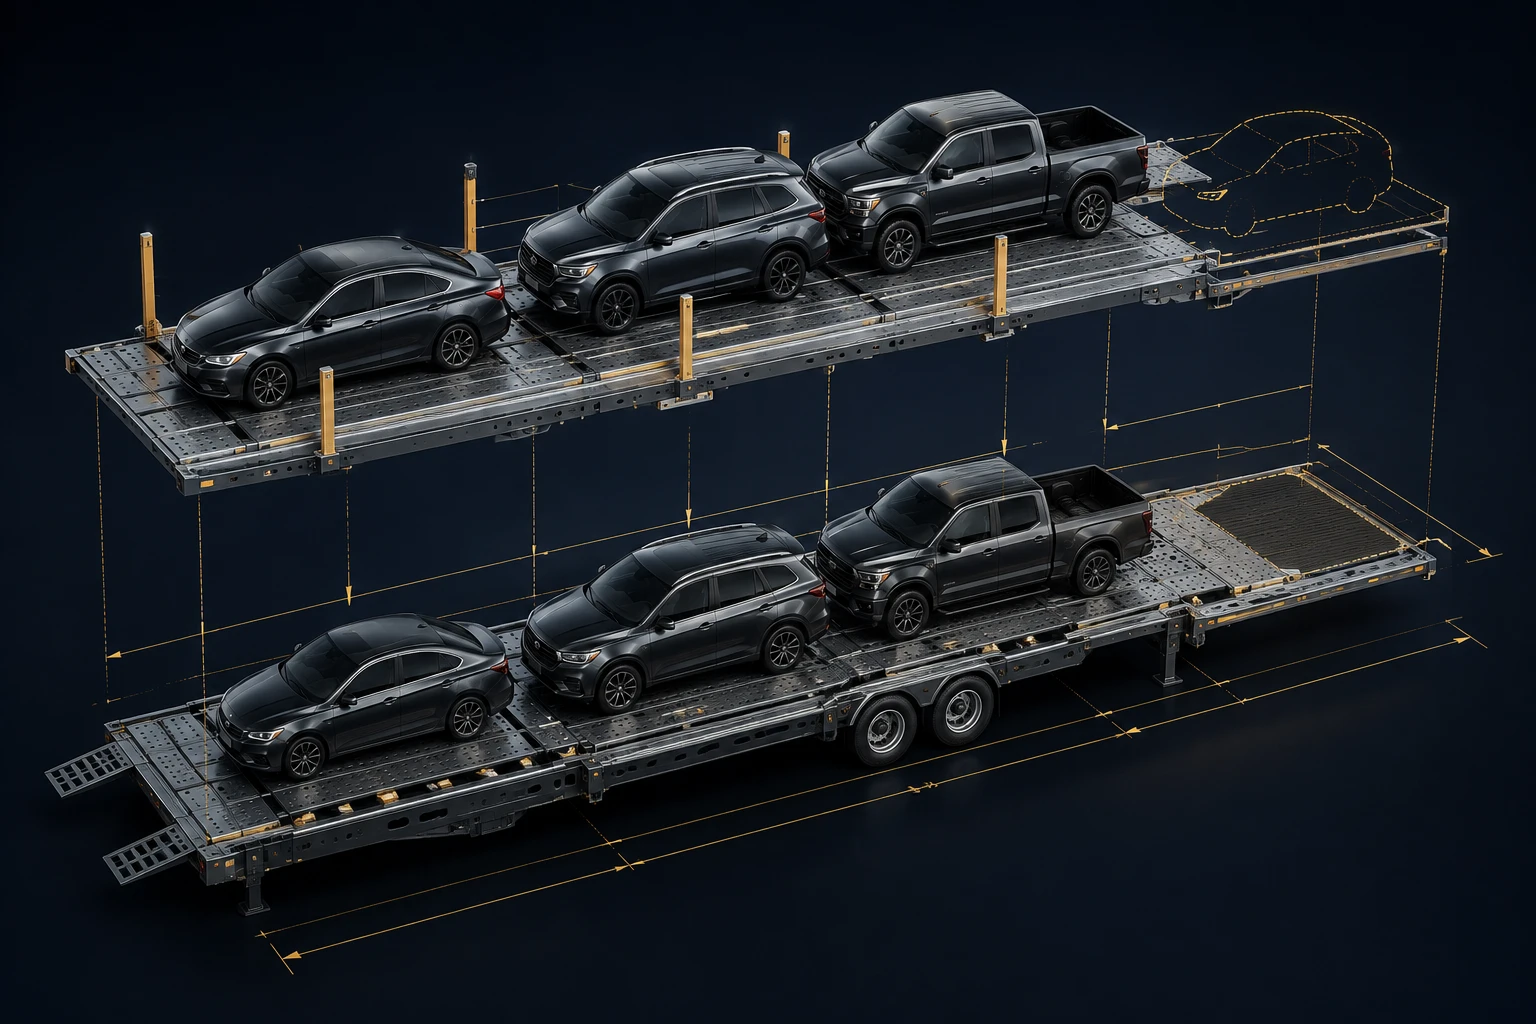
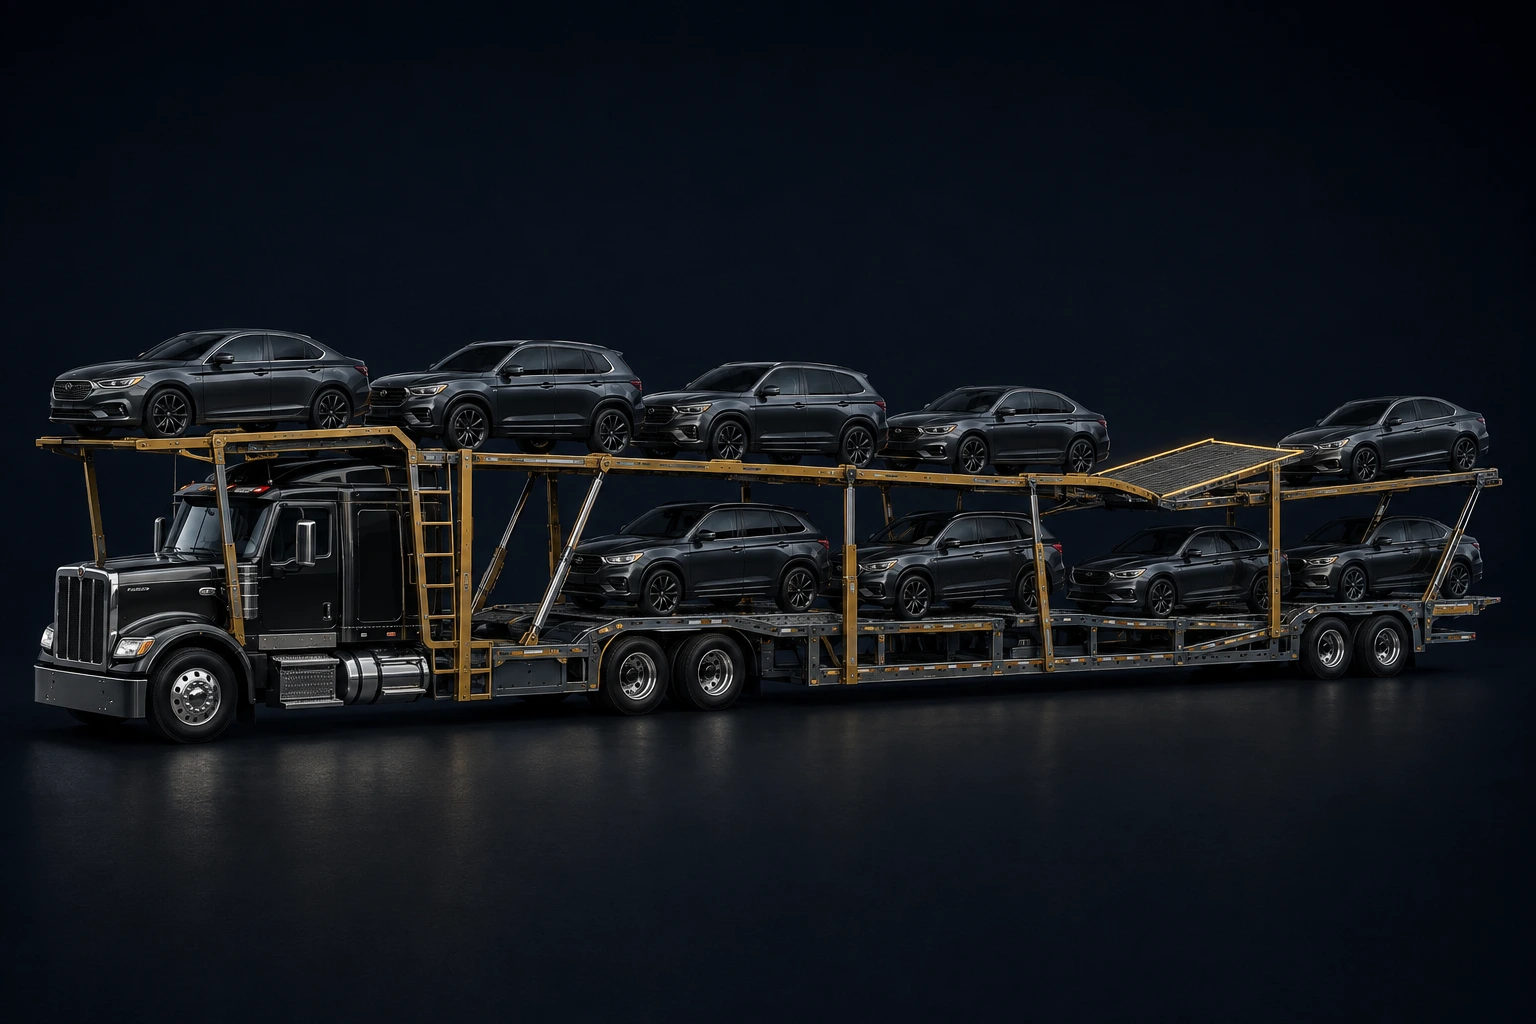
Replace hauler illustrations using NextGen reference

diff --git a/components/redesign/VisualContext.tsx b/components/redesign/VisualContext.tsx
@@ -6,10 +6,11 @@ if(kind==="match")return <div className="cx-special cx-shortlist"><div className
 if(kind==="portal")return <div className="cx-special cx-portal-preview"><div className="cx-portal-copy"><span>CUSTOMER WORKSPACE</span><strong>The movement,<br/>from their side.</strong><p>One shipment. A clear status. The details your customer needs.</p><div className="cx-portal-avatar">D<span>DEMO DEALERSHIP</span></div></div><div className="cx-phone"><div className="cx-phone-notch"/><small>MY SHIPMENT</small><strong>DEMO-1042</strong><span className="cx-phone-status">IN TRANSIT</span><div className="cx-phone-timeline">{["Pickup recorded","On the road","Delivery next"].map((label,i)=><div key={label} className={active===i?"is-active":""}><b>{i<2?"✓":"○"}</b><span>{label}</span></div>)}</div><footer>Detroit → Nashville</footer></div></div>;
 if(kind==="pin")return <div className="cx-special cx-handoff"><div className="cx-special-heading"><span>PIN PROTOCOL / ILLUSTRATION</span><strong>A handoff with context.</strong></div><div className="cx-handoff-grid"><div className="cx-geofence"><div className="cx-radius"/><div className="cx-radius inner"/><div className="cx-location">⌖</div><span>Pickup location</span><b className="cx-driver-dot">D</b><small>Driver request</small></div><div className="cx-auth-card"><span>HANDOFF REVIEW</span><strong>DEMO-1042</strong>{["Driver identity","Location context","Release authorization"].map((label,i)=><div key={label} className={active===i?"is-active":""}><b>0{i+1}</b>{label}</div>)}<footer>Review before release →</footer></div></div></div>;
 const labels=topics[kind];
-const scenes:Record<string,[string,string,string]>={board:["transport","Illustration of vehicles beside a loaded auto transporter","One vehicle. A connected journey."],inspection:["inspection","Vehicle condition inspection with evidence markers and a camera","Condition. Evidence. Handoff."],capacity:["capacity","Separated transporter decks showing vehicle positions and an available slot","A place for every vehicle."],route:["route","Dealership locations connected by a highway and route waypoints","From pickup to delivery."]};
+const scenes:Record<string,[string,string,string]>={board:["transport","Illustration of vehicles beside a loaded auto transporter","One vehicle. A connected journey."],inspection:["inspection","Vehicle condition inspection with evidence markers and a camera","Condition. Evidence. Handoff."],capacity:["capacity","Assembled stinger car hauler with a cab headrack and articulated vehicle decks","A place for every vehicle."],route:["route","Dealership locations connected by a highway and route waypoints","From pickup to delivery."]};
 const scene=scenes[kind];
 if(labels&&scene)return <div className={"cx-scene cx-"+kind}><img src={"/illustrations/"+scene[0]+"-context.webp"} alt={scene[1]} width="1536" height="1024" loading="lazy"/><div className="cx-scene-caption"><span>{kind==="board"?"THE MOVEMENT BEHIND THE RECORD":kind.toUpperCase()+" / VISUAL CONTEXT"}</span><strong>{scene[2]}</strong></div><div className="cx-hotspots" aria-hidden="true">{labels.map((s,i)=><div key={s} className={"cx-hotspot cx-point-"+i+(i===active?" is-active":"")}><b>{String(i+1).padStart(2,"0")}</b><span>{s}</span></div>)}</div><div className="cx-scene-footer"><span>DEMO-1042</span><span>Detroit <i>→</i> Nashville</span><span>ILLUSTRATION</span></div></div>;
 if(kind==="documents"||kind==="ledger"||kind==="pricing")return <div className="cx-paper-scene"><div className={"cx-paper "+(active===0?"is-active":"")}><span>PREVAYL <b>DEMO-1042</b></span><strong>{kind==="documents"?"CARRIER FILE":"CUSTOMER INVOICE"}</strong><div className="cx-paper-lines"><i/><i/><i/></div><div className="cx-paper-total">{kind==="documents"?"Authority · Coverage":"$1,250"}<small>{kind==="documents"?"Review supporting records":"Customer obligation"}</small></div><div className="cx-paper-stamp">{kind==="documents"?"DOCUMENT REVIEW":"ACCOUNTS RECEIVABLE"}</div></div><div className="cx-paper-connector"><span>↔</span><small>Same order<br/>Separate records</small></div><div className={"cx-paper secondary "+(active===1?"is-active":"")}><span>PREVAYL <b>DEMO-1042</b></span><strong>{kind==="documents"?"SHIPMENT EVIDENCE":"CARRIER PAYABLE"}</strong><div className="cx-paper-lines"><i/><i/><i/></div><div className="cx-paper-total">{kind==="documents"?"eBOL · Handoff":"$950"}<small>{kind==="documents"?"Evidence with the movement":"Carrier obligation"}</small></div><div className="cx-paper-stamp">{kind==="documents"?"ORDER DOCUMENTS":"ACCOUNTS PAYABLE"}</div></div></div>;
 if(kind==="trend"||kind==="forecast")return <div className="cx-analysis"><div><span>EXAMPLE / OPERATIONAL READ</span><strong>{kind==="forecast"?"Recorded → Projected":"Movement → Performance"}</strong><p>{kind==="forecast"?"Separate what happened from the outlook.":"Read the pattern, then inspect the loads."}</p></div><div className="cx-spark-chart" aria-hidden="true"><svg viewBox="0 0 280 100"><path d="M0 90H280M0 50H280M0 10H280" stroke="#2e4057" strokeWidth="1"/><path d="M4 80L45 61L83 69L123 35L162 44L205 22L270 10" stroke="#C9A84C" strokeWidth="3" fill="none"/>{[[4,80],[83,69],[162,44],[270,10]].map(([x,y])=><circle key={x} cx={x} cy={y} r="4" fill="#F0F4F8"/>)}</svg></div></div>;
 return <RichContext kind={kind} active={active}/>;
 }
+

diff --git a/NEXTGEN-ART-NOTES.md b/NEXTGEN-ART-NOTES.md
@@ -1,0 +1,5 @@
+# NextGen reference artwork
+
+Replaced lane-ecosystem, transport-context, and capacity-context illustrations using image_gen edits with the real Cottrell NextGen reference from https://www.natats.com/siteart/nextgen/Cottrell-CX-10HCSTS3-photo-01-resize.jpg as geometry guidance. Illustrations are original generated artwork, not certified engineering representations. Reference photo is not published.
+
+Brief: preserve navy/gold composition; conventional US tractor, over-cab headrack, integrated low stinger trailer, connected articulated vehicle tracks and hydraulic supports; remove generic floating decks. Homepage hero is unchanged. Capacity alt text now describes assembled equipment.
